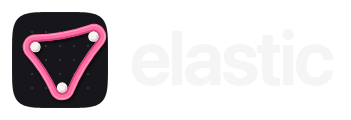
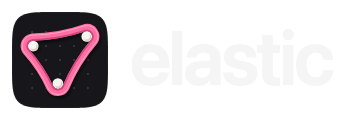
Brand: centre the band in the tile; the loader winds the band on and off
The icon's pegs are recentred (and scaled 0.92) so the band sits in the
middle of the tile. The loading glyph keeps the band and pegs still and
draws the band around them, then takes it off from its start ("Wind",
Amy's pick from the mark lab), instead of drifting the pegs.

Changed region(s): [[0.057, 0.175, 0.3134, 0.85]]

diff --git a/packages/ui/src/loading/LoadingIcon.jsx b/packages/ui/src/loading/LoadingIcon.jsx
@@ -1,24 +1,18 @@
 import { createElement, useEffect, useState } from "react";
 
 /*
- * elastic's mark as a loading glyph: a band around three pegs, in the text colour; while
- * something loads the pegs drift apart and back so the band stretches and
- * settles. Pure SVG (SMIL), no raster and no animation loop in JS. The band's
- * geometry is the app icon's (scripts/brand-mark.mjs) at a small scale.
+ * elastic's mark as a loading glyph: a band around three pegs, in the text colour. While
+ * something loads the band winds itself around the pegs, then unwinds from where it
+ * started. Pure SVG (SMIL), no raster and no animation loop in JS. The band's geometry is
+ * the app icon's (scripts/brand-mark.mjs) at a small scale, centred in the box.
  */
 
 const PEG_R = 7;
 const BAND_W = 9;
 const SAG = 0.08;
 
-/** Rest, then each peg in turn pulled out a little. Clockwise on screen, like the icon. */
-const POSES = [
-  [[26, 38], [78, 28], [50, 78]],
-  [[24, 37], [88, 20], [50, 79]],
-  [[26, 38], [78, 28], [50, 78]],
-  [[25, 39], [77, 29], [46, 90]],
-  [[26, 38], [78, 28], [50, 78]],
-];
+/** Clockwise on screen, like the icon; the band's reach past them is centred at 50,50. */
+const PEGS = [[24, 35], [76, 25], [48, 75]];
 
 const f = (n) => n.toFixed(2);
 
@@ -47,20 +41,16 @@ function bandPath(pegs, d) {
   return `${path}Z`;
 }
 
-const DURATION = "2.4s";
-const SPLINES = POSES.slice(1).map(() => "0.45 0 0.25 1").join(";");
-const TIMES = POSES.map((_, i) => (i / (POSES.length - 1)).toFixed(3)).join(";");
+const DURATION = "2.2s";
+const EASE = "0.45 0 0.25 1";
 
-function animate(attributeName, values) {
-  return createElement("animate", {
-    attributeName,
-    values: values.join(";"),
-    keyTimes: TIMES,
-    keySplines: SPLINES,
-    calcMode: "spline",
-    dur: DURATION,
-    repeatCount: "indefinite",
-  });
+/** Draw the band on over the first half, then take it off from its start over the second. */
+function wind() {
+  const common = { keyTimes: "0;0.5;1", keySplines: `${EASE};${EASE}`, calcMode: "spline", dur: DURATION, repeatCount: "indefinite" };
+  return [
+    createElement("animate", { key: "array", attributeName: "stroke-dasharray", values: "0 100;100 100;100 100", ...common }),
+    createElement("animate", { key: "offset", attributeName: "stroke-dashoffset", values: "0;0;-100", ...common }),
+  ];
 }
 
 /**
@@ -86,23 +76,24 @@ export default function LoadingIcon({ active = true, size = 96, className = "", 
 
   const moving = active && animateOk && !reducedMotion;
   const center = PEG_R + BAND_W / 2;
-  const rest = POSES[0];
-  const band = (d, props) =>
-    createElement(
-      "path",
-      { d: bandPath(rest, d), fill: "none", strokeLinejoin: "round", ...props },
-      moving ? animate("d", POSES.map((pose) => bandPath(pose, d))) : null,
-    );
-  const pegs = rest.map((peg, i) =>
-    createElement(
-      "circle",
-      { key: i, cx: peg[0], cy: peg[1], r: PEG_R - 1, fill: "currentColor", opacity: 0.45 },
-      moving ? animate("cx", POSES.map((pose) => pose[i][0])) : null,
-      moving ? animate("cy", POSES.map((pose) => pose[i][1])) : null,
-    ),
+  const pegs = PEGS.map((peg, i) =>
+    createElement("circle", { key: i, cx: peg[0], cy: peg[1], r: PEG_R - 1, fill: "currentColor", opacity: 0.45 }),
+  );
+  const band = createElement(
+    "path",
+    {
+      d: bandPath(PEGS, center),
+      fill: "none",
+      stroke: "currentColor",
+      strokeWidth: BAND_W,
+      strokeLinejoin: "round",
+      strokeLinecap: "round",
+      pathLength: 100,
+    },
+    moving ? wind() : null,
   );
 
-  // Keep this tiny public entry usable without the CAD surface's JSX transform.
+  // Keep this tiny public entry usable without a JSX transform.
   return createElement(
     "svg",
     {
@@ -115,7 +106,6 @@ export default function LoadingIcon({ active = true, size = 96, className = "", 
       className: `shrink-0 select-none ${className}`,
     },
     pegs,
-    band(center, { stroke: "currentColor", strokeWidth: BAND_W }),
-    
+    band,
   );
 }

diff --git a/DESIGN.md b/DESIGN.md
@@ -47,9 +47,10 @@ so a plugin's view matches the window in light and dark. Bundled plugins
 `scripts/brand-mark.mjs` draws the app icon, the in-app mark, the wordmark
 PNGs and the variants sheet (`docs/brand/variants.png`). The mark is a pink
 band stretched around three pegs on a dark tile: the pegs are plugins, the
-band is the app stretching to fit them. The pink lives in the icon only.
+band is the app stretching to fit them, centred in the tile (`centred` in
+`scripts/brand-mark.mjs`). The pink lives in the icon only.
 
 The loading glyph (`@workbench/ui/loading-icon`) is the band itself, drawn in
-the text colour: while something loads, the pegs drift apart and back so the
-band stretches and settles. It holds still under reduced motion. It also sits
+the text colour: while something loads, the band winds itself around the pegs,
+then unwinds from where it started (Amy's pick, "Wind", from the mark lab). It holds still under reduced motion. It also sits
 above the new-session prompt, the way Codex shows its mark there.
